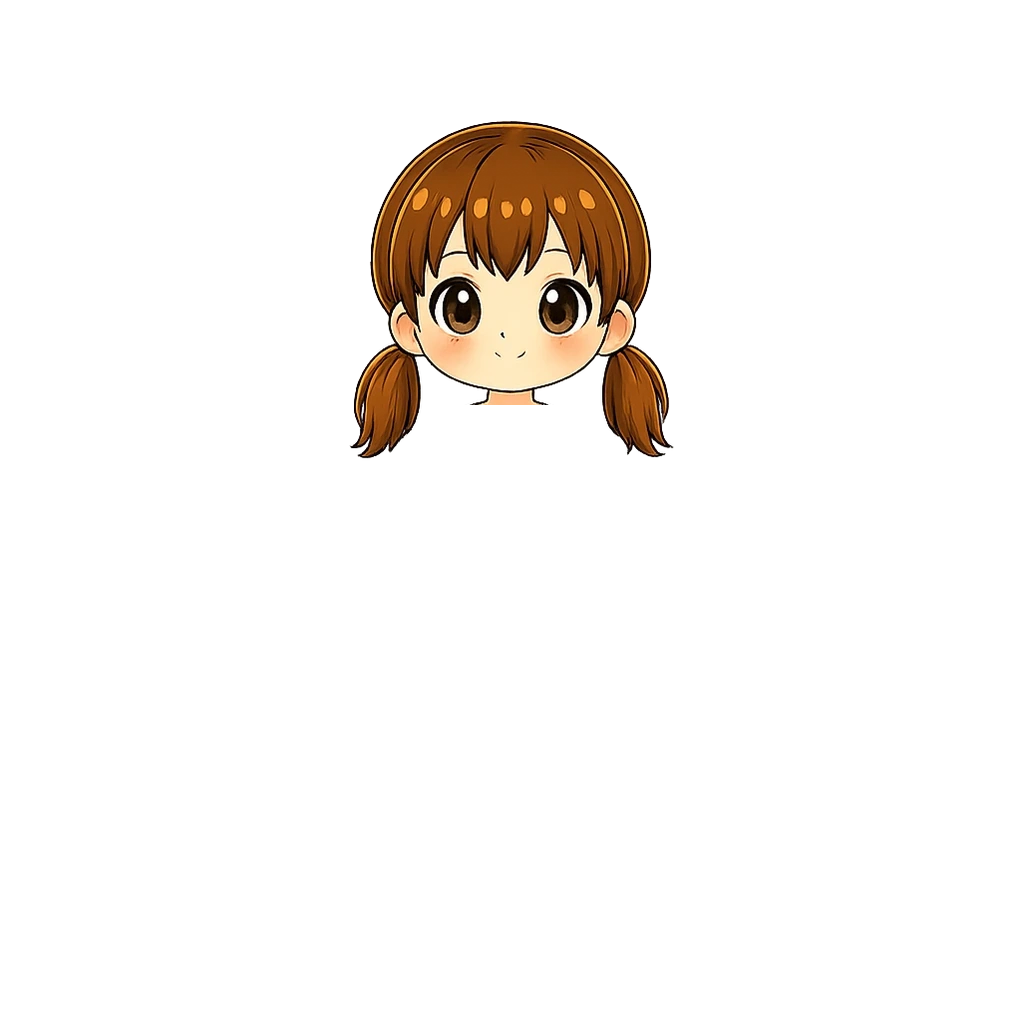
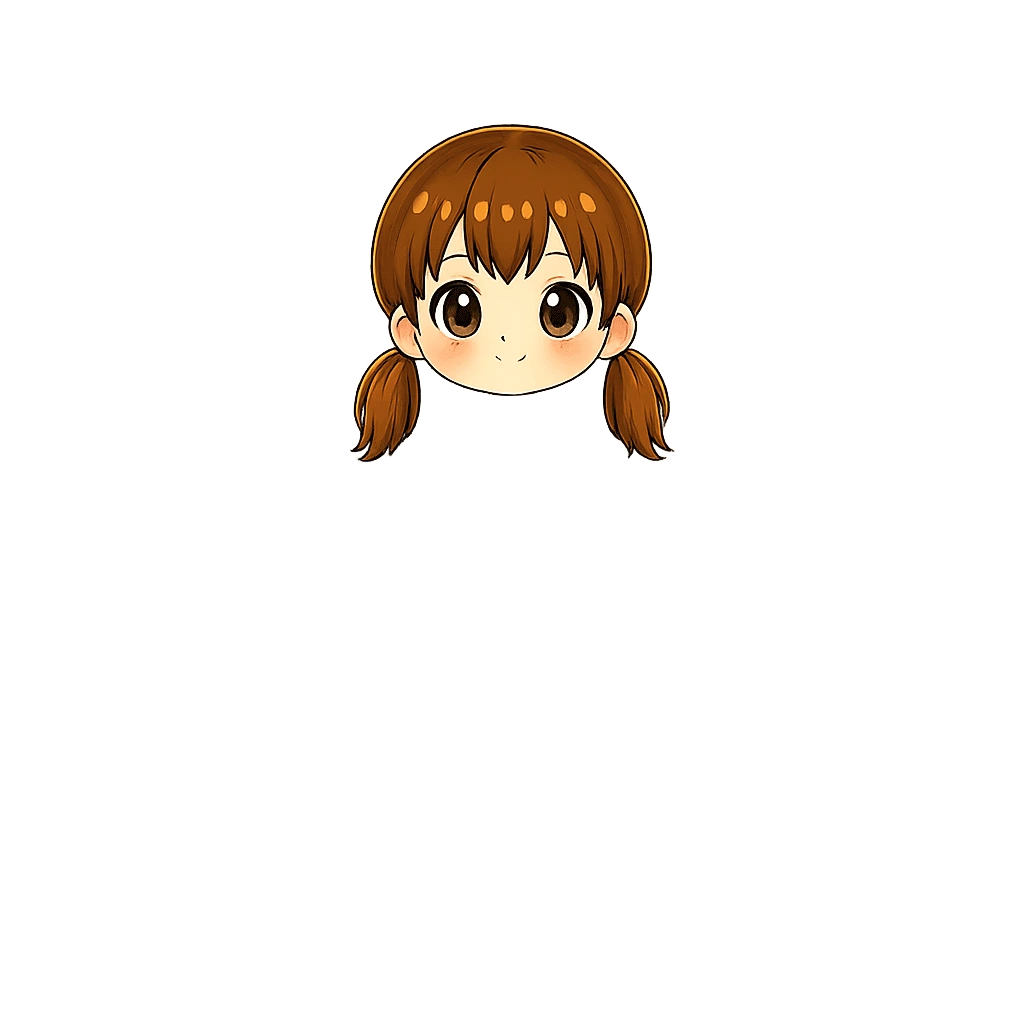
feat: 기본 아바타 여아를 새 원화(v4)로 교체 (#164)
* fix: 모험지도 발자국 길 이탈 수정 — v5 원화에서 모래길 중심선 자동 추출로 경로 재보정

- 짧은/긴 지도 PATH를 원화 색 분류 스캔(모래색 픽셀 행별 추적)으로 재추출
- 짧은 지도 17점 → 46점, 긴 지도 21점 → 68점 (S커브·다리 통과 정밀 반영)
- 다리 구간은 목재 데크라 색 추출이 안 되어 수동 보간

Claude-Session: https://claude.ai/code/session_018maNuYqDfFyRSe9uKpZhPR

* feat: 우측 상단 원형 뱃지 버튼 3종 세로 배치 (엄마용-아이전환-아바타)

- 사용자 신규 원화 4종 탑재: 엄마용(엄마 얼굴)·아이전환(남매)·내아바타(초록 실루엣)·성장캐릭터(새싹)
- 엄마용·아이전환 뱃지 그림 v2로 교체
- 내 아바타/성장캐릭터 토글: 좌측 하단 나무 팻말 → 우측 상단 3번째 원형 뱃지(52px)로 이동
- 배경 꾸미기 장착 시 크림 캡슐 분기 제거 (뱃지가 헤더 영역이라 불필요)
- 원본 4장 art-src/ 보관 + README 갱신, vite build 검증

Claude-Session: https://claude.ai/code/session_018maNuYqDfFyRSe9uKpZhPR

* feat: 모험지도 학원 건물 v6 정글 세트 교체 (나무집·돌아치·텐트·티키오두막)

- 사용자 신규 원화 4종 탑재: trim + 높이 220 + 채도 1.08 + webp q86
- 텐트·티키는 원화의 흰 원을 투명 펀칭(중심 flood-fill) — 이모지 뒤배치 방식 유지
- 구멍 중심·지름 실측(투명 블롭 스캔)으로 cx/cy/d 갱신, k는 구멍 표시 크기 통일 기준 재계산
- 구 건물 webp 4종 삭제(미참조 확인), 원본은 art-src/ 보관 + README 갱신

Claude-Session: https://claude.ai/code/session_018maNuYqDfFyRSe9uKpZhPR

* polish: 모험 홈 무게중심 미세조정 6종 (사용자 픽셀 단위 가이드)

- 캐릭터·펫 컨테이너 20px 위로 (translateY 6→-14) — 하단 시트 눌림감 해소
- 헤드라인 문구 아래 20px·우측 7px (relative, 레이아웃 불변) + 나침반 이모지 간격 축소
- 우측 뱃지 3번째(아바타 토글) marginTop 2px — 간격 착시 보정
- '곧 부화!' 말풍선 알쪽으로 11px 하강 + 4px 우측 — 알과 한 덩어리로
- 시트 핸들바 아래 여백 14→7px — 날짜바 소폭 상승
- 모험 탭 초록 채움 8% 소프트 (#A5BB60→#ACC06D)

Claude-Session: https://claude.ai/code/session_018maNuYqDfFyRSe9uKpZhPR

* polish: 모험지도 라벨·발자국·진행도 개선 (사용자 가이드 8종)

- 이름표 2줄 통일: 1줄 학원명 / 2줄 🕘 시간(진하게) — 전 라벨 동일 규칙
[…]

Changed region(s): [[0.3438, 0.0938, 0.6562, 0.4688]]

diff --git a/art-src/README.md b/art-src/README.md
@@ -13,7 +13,7 @@ ChatGPT로 생성한 **가공 전 원본 이미지**를 보관한다. 배포(dis
 모자처럼 얼굴째 덮는 장비는 카탈로그에 `hidesHead: true`를 달면 머리 장을 아예 안 그리고
 그 자리에 장비 그림만 얹는다 — 베이스 머리 위에 덮어 씌우면 크기가 조금만 어긋나도
 턱선·귀선이 겹쳐 보이던 문제가 이 구조로 원천 해결된다.
-남아 머리/몸통 경계 y=404(턱 끝, 중심 x=506) · 여아 y≈405.
+남아 머리/몸통 경계 y=404(턱 끝, 중심 x=506) · 여아 y≈395.
 **얼굴 덮는 장비 탑재 공식** — 원화의 눈 간격을 베이스 머리(124.5)에 맞춰 배율을 잡고,
 턱 끝을 y=404 · 중심 x=506 에 정렬한다. 모자 4종 모두 이 방식(배율 1.08~1.13).
 **신발 탑재 공식** — 현행 신발 에셋의 bbox 안에 비율 유지로 넣되 **바닥(y1)을 일치**시킨다
@@ -22,8 +22,11 @@ ChatGPT로 생성한 **가공 전 원본 이미지**를 보관한다. 배포(dis
 **아바타 베이스 교체 규칙**: 모자·신발·상의 등 장비 그림은 1024×1024 안에서
 '베이스가 있던 자리'에 맞춰 그려져 있다. 그래서 베이스를 새로 넣을 땐 반드시
 **현행 베이스의 bbox(키·중심x·발끝)에 맞춰 배율·위치를 잡아야** 장비가 어긋나지 않는다.
-현행 기준값 — 남아 x365~657 / y122~935, 여아 x349~673 / y121~936 (중심x 511).
-눈 위치(장비 정렬 기준) — 남아 간격 96.8·중심 (512, 321) / 여아 간격 106.8·중심 (510, 303).
+현행 기준값 — 남아 x365~657 / y122~935, 여아 x350~674 / y124~936 (중심x 511).
+눈 위치(장비 정렬 기준) — 남아 간격 96.8·중심 (512, 321) / 여아 간격 106.8·중심 (510, 306).
+**목 이음매 확인** — 머리 장과 몸통 장을 따로 배치하면 목 부분에 몇 px 투명 틈이 생길 수 있다.
+목 열(여아 x486~534)마다 `머리 아래끝 vs 몸통 위끝`을 재서 틈이 0 이하가 되게 머리를 내려 맞춘다
+(여아 v4는 눈 정렬값에서 3px 내려 top=124로 확정 — 드러난 목 32px로 기존과 동일).
 (옛 방식 기록 — 머리 장을 안 그리기 전에는 얼굴 덮는 장비를 '베이스 윤곽선이 안 삐져나오는
 최소 배율'로 키워야 했다. 지금은 머리를 아예 안 그리므로 그런 여유가 필요 없고,
 턱 끝·얼굴폭만 맞추면 된다.)
@@ -46,7 +49,9 @@ ChatGPT로 생성한 **가공 전 원본 이미지**를 보관한다. 배포(dis
 | base-boy-v4-head.webp | 남아 머리 원화 v4 (현행 — 몸통과 이어 붙여 탑재) | avatar/base/head.webp |
 | base-boy-v4-body.webp | 남아 몸통 원화 v4 (현행 — 머리와 이어 붙여 탑재) | avatar/base/body.webp |
 | base-boy-v3.webp | 남아 아바타 베이스 원화 v3 (교체됨) | — |
-| base-girl-v3.webp | 여아 아바타 베이스 원화 v3 (현행 — 배경 제거·현행 bbox에 맞춰 정렬 탑재) | avatar/base/default-girl.webp |
+| base-girl-v4-head.webp | 여아 머리 원화 v4 (현행 — 눈 정렬 후 3px 내려 몸통과 이어 붙여 탑재) | avatar/base/head-girl.webp |
+| base-girl-v4-body.webp | 여아 몸통 원화 v4 (현행 — 발끝 y936 정렬, 머리와 이어 붙여 탑재) | avatar/base/body-girl.webp |
+| base-girl-v3.webp | 여아 아바타 베이스 원화 v3 (교체됨) | — |
 | base-boy.webp | 남아 아바타 베이스 원화 v2 (교체됨) | — |
 | base-girl.webp | 여아 아바타 베이스 원화 v2 (교체됨) | — |
 | boots-explorer-v3.webp | 탐험 부츠 원화 v3 (현행) | avatar/shoes/explorer-boots.webp |
